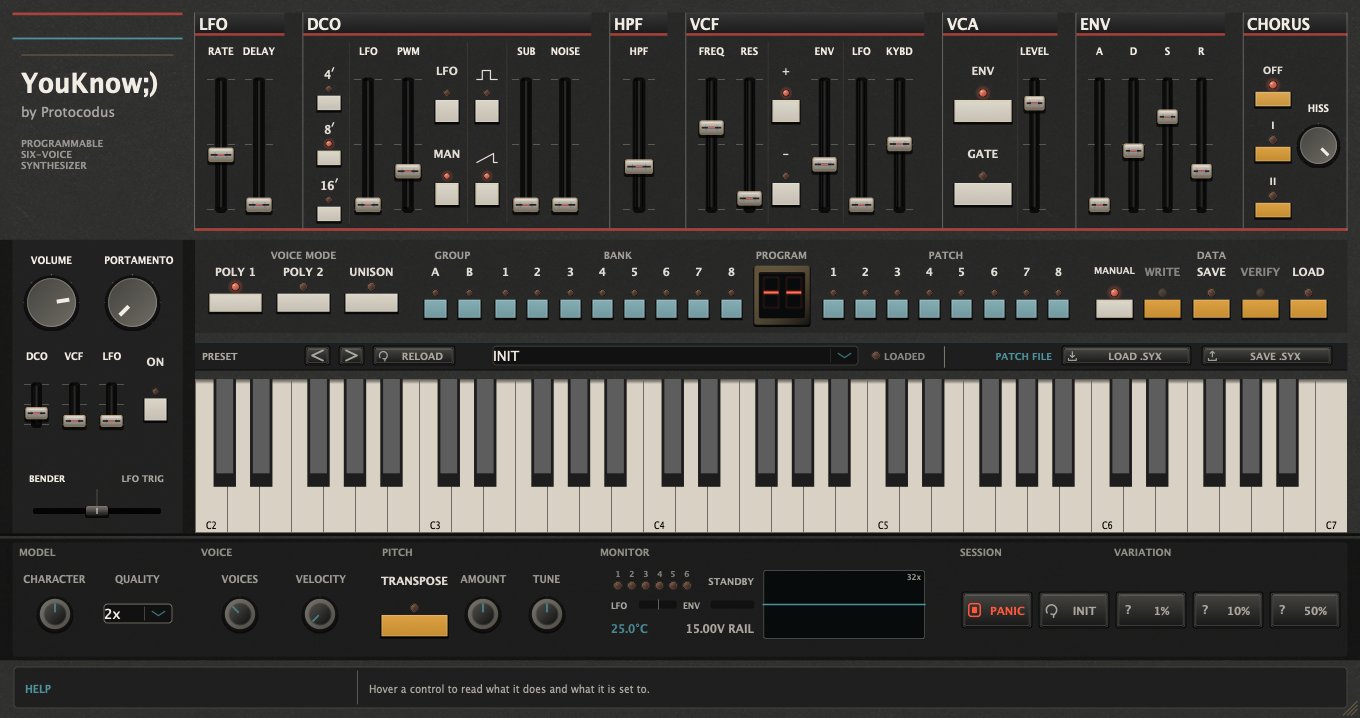
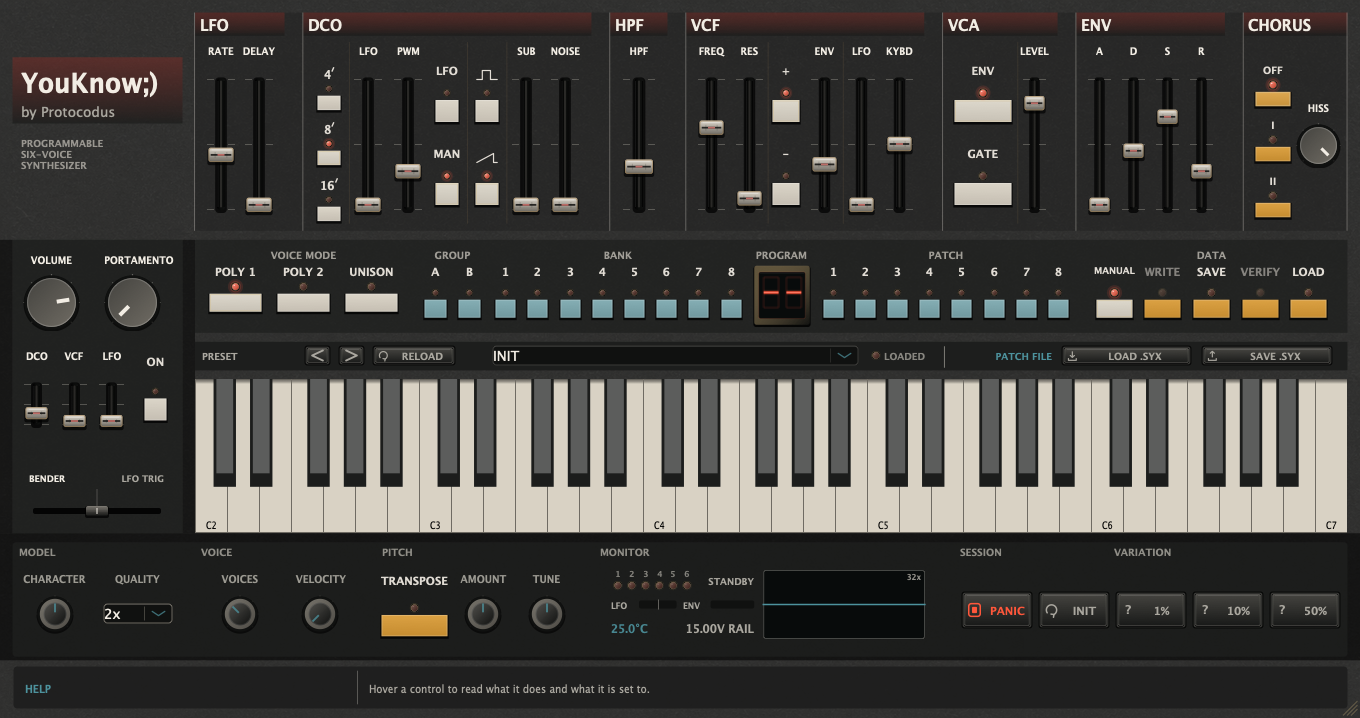
Simplify YouKnow106 panel bands

Changed region(s): [[0.0, 0.0, 0.9882, 0.1226], [0.1544, 0.3064, 0.9882, 0.337]]

diff --git a/youknow106/Source/PluginEditor.cpp b/youknow106/Source/PluginEditor.cpp
@@ -42,9 +42,8 @@ constexpr auto segmentDisplayStyleProperty = "segmentDisplayStyle";
 constexpr auto statusLampStyleProperty = "statusLampStyle";
 constexpr auto statusLampOnProperty = "statusLampOn";
 
-// Every enclosing UI surface uses this same quiet neutral frame. Section
-// colours remain as thin header rules, where they communicate signal role,
-// instead of turning adjacent cards into a collection of unrelated borders.
+// Framed controls share one quiet neutral edge. Broad tonal fields carry the
+// panel hierarchy instead of outlining every surface.
 constexpr float surfaceCornerRadius = 4.0f;
 constexpr float surfaceBorderWidth = 1.0f;
 
@@ -70,12 +69,6 @@ void drawFramedSurface (juce::Graphics& g, juce::Rectangle<float> bounds,
     g.setColour (fill);
     g.fillRoundedRectangle (bounds, corner);
     drawSurfaceBorder (g, bounds, border, uiScale);
-}
-
-void drawFramedSurface (juce::Graphics& g, juce::Rectangle<float> bounds,
-                        juce::Colour fill, float uiScale = 1.0f)
-{
-    drawFramedSurface (g, bounds, fill, surfaceBorderColour(), uiScale);
 }
 
 void drawJewelLamp (juce::Graphics& g, juce::Rectangle<float> lens, bool on,
@@ -1623,9 +1616,9 @@ void YouKnow106ContextHelp::paint (juce::Graphics& g)
 {
     auto bounds = getLocalBounds().toFloat().reduced (0.5f);
     const float uiScale = static_cast<float> (getHeight()) / panel::helpStripHeight;
-    drawFramedSurface (g, bounds,
-                       fromPalette (panel::colour::faceplateLow).withAlpha (0.88f),
-                       uiScale);
+    g.setColour (fromPalette (panel::colour::faceplateLow).withAlpha (0.88f));
+    g.fillRoundedRectangle (bounds,
+                            juce::jmax (2.5f, surfaceCornerRadius * uiScale));
 
     auto content = bounds.reduced (juce::jmax (8.0f, bounds.getHeight() * 0.28f),
                                    juce::jmax (2.0f, bounds.getHeight() * 0.10f));
@@ -3269,7 +3262,6 @@ void YouKnow106AudioProcessorEditor::paint (juce::Graphics& g)
     texture.fill (g, bounds, fromPalette (panel::colour::faceplate));
 
     const auto red = fromPalette (panel::colour::magenta);
-    const auto blue = fromPalette (panel::colour::cyan);
     const auto ink = fromPalette (panel::colour::text);
     const auto hairline = ink.withAlpha (0.34f);
 
@@ -3279,6 +3271,7 @@ void YouKnow106AudioProcessorEditor::paint (juce::Graphics& g)
     g.fillRect (scaled (panel::instrumentLeft, panel::soundRowTop,
                         panel::instrumentRight - panel::instrumentLeft,
                         panel::soundRowHeight));
+    g.setColour (fromPalette (panel::colour::faceplateLow).withAlpha (0.68f));
     g.fillRect (scaled (panel::instrumentLeft, panel::performanceDeckTop,
                         panel::instrumentRight - panel::instrumentLeft,
                         panel::programmerHeight));
@@ -3286,19 +3279,17 @@ void YouKnow106AudioProcessorEditor::paint (juce::Graphics& g)
     g.fillRect (scaled (panel::controllerX, panel::performanceDeckTop,
                         panel::controllerWidth, panel::performanceDeckHeight));
 
-    // Identity-field rails echo the physical composition without reproducing
-    // a manufacturer mark. Their subdued enamel/brass pairing leaves the
-    // wordmark as the focus instead of making the cheek another control card.
-    g.setColour (red);
-    g.fillRect (scaled (panel::controllerX, panel::soundRowTop,
-                        panel::controllerWidth, 3.0f));
-    g.setColour (blue);
-    g.fillRect (scaled (panel::controllerX, panel::soundRowTop + 28.0f,
-                        panel::controllerWidth, 2.0f));
-    g.setColour (fromPalette (panel::colour::brass).withAlpha (0.62f));
-    g.fillRect (scaled (panel::controllerX + 10.0f,
-                        panel::soundRowTop + 47.0f,
-                        panel::controllerWidth - 20.0f, 1.0f));
+    // One broad enamel inlay gives the identity field its vintage accent
+    // without stacking decorative rules above the wordmark.
+    const auto identityBand = scaled (panel::controllerX, 64.0f,
+                                      panel::controllerWidth, 74.0f);
+    juce::ColourGradient identityGradient (
+        red.darker (0.48f).withAlpha (0.62f),
+        identityBand.getX(), identityBand.getY(),
+        fromPalette (panel::colour::faceplateLow).withAlpha (0.78f),
+        identityBand.getX(), identityBand.getBottom(), false);
+    g.setGradientFill (identityGradient);
+    g.fillRect (identityBand);
     g.setColour (fromPalette (panel::colour::textDim).withAlpha (0.86f));
     g.setFont (clearPanelFont (juce::jmax (10.0f, 12.5f * scale), true));
     g.drawFittedText ("PROGRAMMABLE\nSIX-VOICE\nSYNTHESIZER",
@@ -3314,24 +3305,17 @@ void YouKnow106AudioProcessorEditor::paint (juce::Graphics& g)
         const auto header = scaled (section.x, section.y, section.width,
                                     panel::headerHeight);
         juce::ColourGradient headerGradient (
-            fromPalette (panel::colour::faceplateLow).brighter (0.12f),
+            red.darker (0.52f).withAlpha (0.58f),
             header.getX(), header.getY(),
-            fromPalette (panel::colour::faceplateLow).darker (0.14f),
+            fromPalette (panel::colour::faceplateLow).withAlpha (0.88f),
             header.getX(), header.getBottom(), false);
         g.setGradientFill (headerGradient);
         g.fillRect (header);
-        g.setColour (juce::Colours::white.withAlpha (0.055f));
-        g.fillRect (header.getX(), header.getY(), header.getWidth(),
-                    juce::jmax (1.0f, scale));
-        g.setColour (red.darker (0.04f));
-        g.fillRect (header.getX(), header.getBottom() - 3.0f * scale,
-                    header.getWidth(), 3.0f * scale);
 
         const char* title = section.displayTitle;
         const char* code = section.displayCode;
 
-        auto titleArea = header.reduced (4.0f * scale, 0.0f)
-                               .withTrimmedBottom (3.0f * scale);
+        auto titleArea = header.reduced (5.0f * scale, 0.0f);
         juce::Rectangle<float> codeArea;
         if (code[0] != '\0')
         {
@@ -3384,10 +3368,6 @@ void YouKnow106AudioProcessorEditor::paint (juce::Graphics& g)
     subgroupDividers (sections[5], { 2, 4 });
     subgroupDividers (sections[6], { 2 });
 
-    g.setColour (red);
-    g.fillRect (scaled (panel::instrumentLeft,
-                        panel::soundRowTop + panel::soundRowHeight - 3.0f,
-                        panel::instrumentRight - panel::instrumentLeft, 3.0f));
     g.setColour (hairline);
     g.fillRect (scaled (panel::instrumentRight - 1.0f, panel::soundRowTop,
                         1.0f, panel::soundRowHeight));
@@ -3441,19 +3421,12 @@ void YouKnow106AudioProcessorEditor::paint (juce::Graphics& g)
                 memoryGlass.getRight() - 1.0f, memoryGlass.getY() + 1.0f,
                 juce::jmax (1.0f, scale));
 
-    // Modern host navigation is adjacent to the memory keys, but its slim
-    // recessed rail and explicit label keep it out of the original tier.
+    // Modern host navigation is adjacent to the memory keys. A deeper tonal
+    // band distinguishes it without adding top and bottom rules.
     g.setColour (fromPalette (panel::colour::faceplateLow).withAlpha (0.94f));
     g.fillRect (scaled (panel::instrumentLeft, panel::presetTop,
                         panel::instrumentRight - panel::instrumentLeft,
                         panel::presetHeight));
-    g.setColour (blue.withAlpha (0.30f));
-    g.fillRect (scaled (panel::instrumentLeft, panel::presetTop,
-                        panel::instrumentRight - panel::instrumentLeft, 1.0f));
-    g.setColour (juce::Colours::black.withAlpha (0.64f));
-    g.fillRect (scaled (panel::instrumentLeft,
-                        panel::presetTop + panel::presetHeight - 1.0f,
-                        panel::instrumentRight - panel::instrumentLeft, 1.0f));
     g.setColour (fromPalette (panel::colour::textDim).withAlpha (0.76f));
     g.setFont (clearPanelFont (juce::jmax (8.0f, 9.0f * scale), true));
     g.fillRect (scaled (1055.0f, panel::presetTop + 5.0f,
@@ -3471,8 +3444,10 @@ void YouKnow106AudioProcessorEditor::paint (juce::Graphics& g)
     // Remaining modern controls share one calm lower surface. UNISON and HISS
     // have moved into the related hardware groups rather than being repeated.
     g.setColour (juce::Colours::black.withAlpha (0.58f));
-    g.fillRect (scaled (0.0f, panel::extensionDeckTop - 4.0f,
-                        panel::panelWidth(), panel::extensionDeckHeight + 8.0f));
+    const float lowerSurfaceTop = panel::panelHeight + panel::keyboardHeight;
+    g.fillRect (scaled (0.0f, lowerSurfaceTop, panel::panelWidth(),
+                        panel::extensionDeckTop + panel::extensionDeckHeight
+                            + 4.0f - lowerSurfaceTop));
     const auto deck = scaled (panel::panelMargin, panel::extensionDeckTop,
                               panel::panelWidth() - 2.0f * panel::panelMargin,
                               panel::extensionDeckHeight);
@@ -3500,10 +3475,6 @@ void YouKnow106AudioProcessorEditor::paint (juce::Graphics& g)
     drawExtensionHeading (panel::operationsBarX + operationPitch * 2.0f,
                           panel::operationsBarWidth - operationPitch * 2.0f,
                           "VARIATION");
-    // Hard separation keeps the original hardware and the add-on bay distinct.
-    g.setColour (juce::Colours::black.withAlpha (0.72f));
-    g.fillRect (scaled (0.0f, panel::panelHeight + panel::keyboardHeight,
-                        panel::panelWidth(), 3.0f));
 }
 
 void YouKnow106AudioProcessorEditor::timerCallback()

diff --git a/youknow106/Tests/PluginProcessorTests.cpp b/youknow106/Tests/PluginProcessorTests.cpp
@@ -3826,7 +3826,7 @@ void testEveryPanelLegendFitsInTheRealFont()
         if (section.y >= panel::performanceDeckTop)
             return;
 
-        float available = (section.width - 8.0f) * scale;
+        float available = (section.width - 10.0f) * scale;
         float codeWidth = 0.0f;
         if (section.displayCode[0] != '\0')
         {
@@ -3849,7 +3849,7 @@ void testEveryPanelLegendFitsInTheRealFont()
                      + section.displayTitle + " needs "
                       + juce::String (drawn, 1) + " in "
                       + juce::String (available, 1)));
-        expect (titleSize <= (panel::headerHeight - 3.0f) * scale + 0.1f,
+        expect (titleSize <= panel::headerHeight * scale + 0.1f,
                 say (juce::String (sizeName)
                      + " section header is vertically clipped: "
                      + section.displayTitle));

diff --git a/youknow106/README.md b/youknow106/README.md
@@ -732,7 +732,7 @@ programmer legends use an open system sans rather than condensed display type,
 and the resize floor keeps them above the tested readability threshold.
 
 A slim host-preset navigator sits directly below the programmer, aligned with
-the BANK keys but isolated by its own recessed muted-teal rail. The remaining
+the BANK keys but isolated by its own recessed host band. The remaining
 plugin-only features stay close to the original families: UNISON completes the
 three-key VOICE MODE group, HISS sits inside CHORUS, and VELOCITY shares the
 lower VOICE group with the continuous voice-limit control. Transpose and tuning
